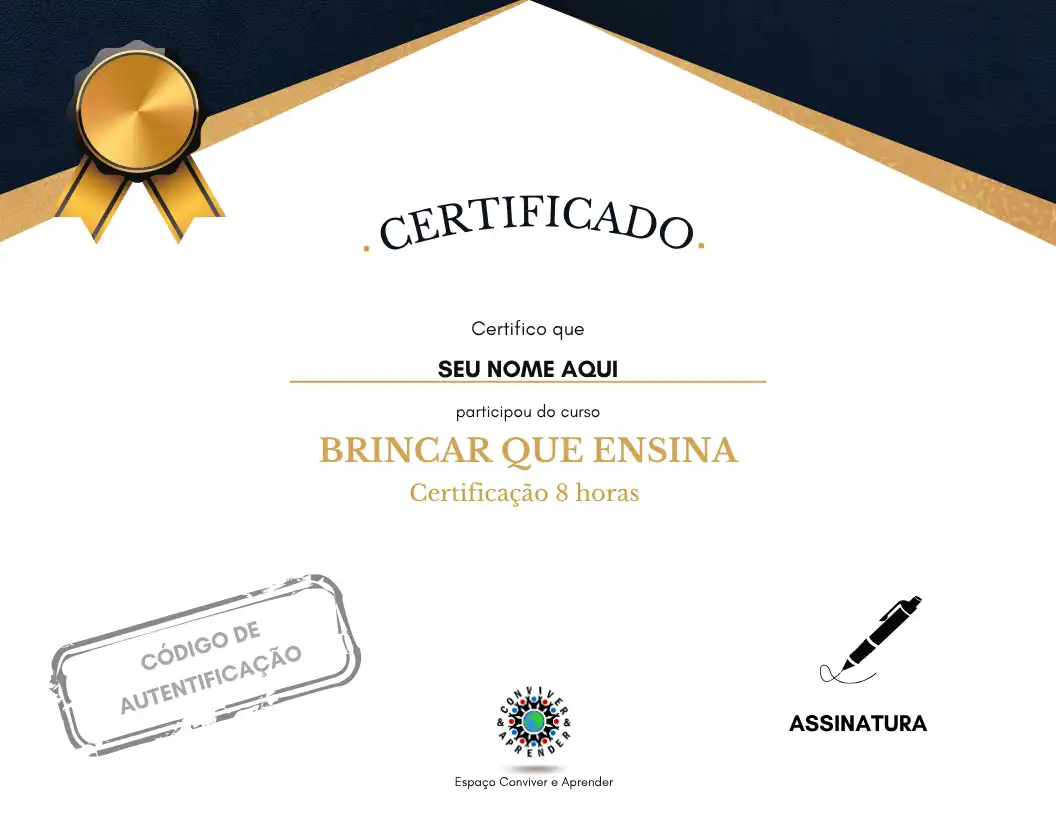
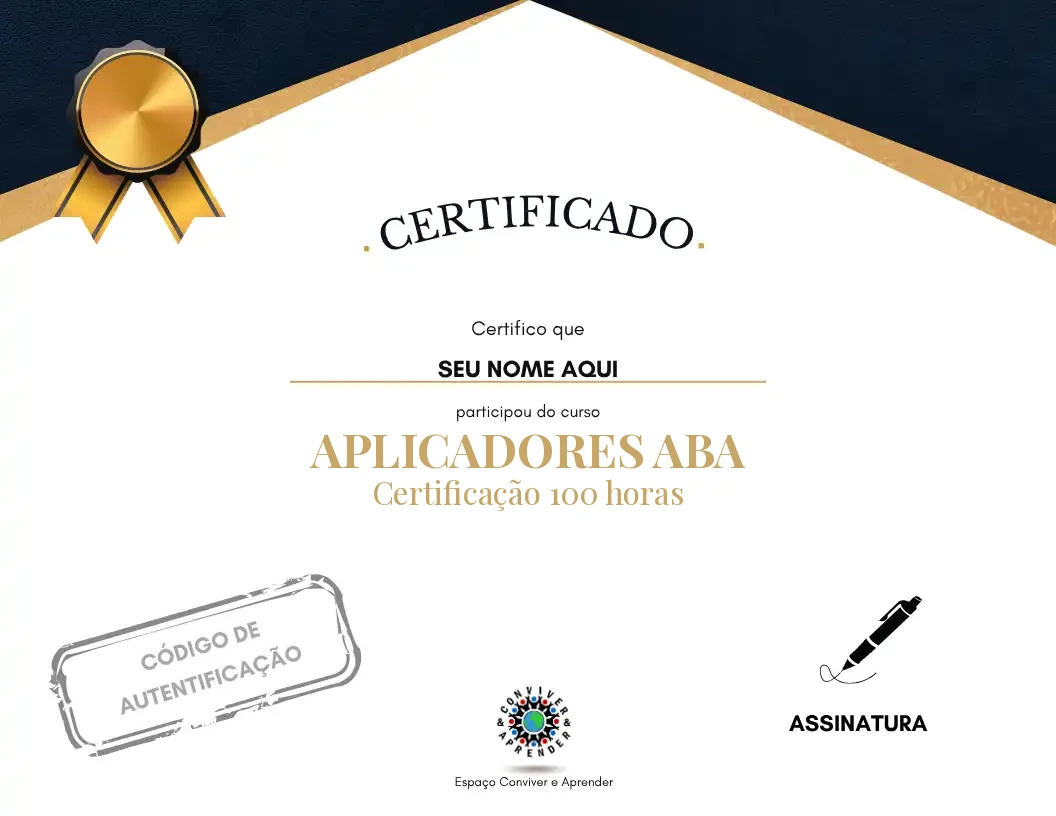
fix(cert): certificado do ABA com nome e carga horaria corretos
- Imagem exibia BRINCAR QUE ENSINA / 8 horas (copiada do curso Brincar)
- Corrige para APLICADORES ABA / Certificacao 100 horas; cache-bust ?v=2

Changed region(s): [[0.2812, 0.5208, 0.7188, 0.6434]]

diff --git a/index.html b/index.html
@@ -632,7 +632,7 @@ footer a{color:var(--coral-2)}
   <div class="wrap">
     <div class="section-head rv"><span class="eyebrow"><span class="dot"></span>Certificação</span><h2>100 horas de certificado!</h2><p>Certificado reconhecido para você atuar como Aplicador ABA / Acompanhante Terapêutico.</p></div>
     <div class="cert-grid">
-      <div class="cert-stage rv"><img src="assets/certificado.webp?v=1" alt="Certificado do curso, 100 horas" width="1056" height="816" loading="lazy" style="width:100%;border-radius:12px;box-shadow:var(--sh);transform:rotate(-2deg)"></div>
+      <div class="cert-stage rv"><img src="assets/certificado.webp?v=2" alt="Certificado do Curso de Aplicadores ABA, 100 horas" width="1056" height="816" loading="lazy" style="width:100%;border-radius:12px;box-shadow:var(--sh);transform:rotate(-2deg)"></div>
       <div class="rv">
         <ul class="cert-pts">
           <li><span class="ck"><svg viewBox="0 0 24 24" fill="none" stroke="currentColor" stroke-width="3"><path d="M5 13l4 4L19 7"/></svg></span><div><b>Atue como Aplicador ABA</b><span>Formação reconhecida para começar a atuar na área.</span></div></li>
